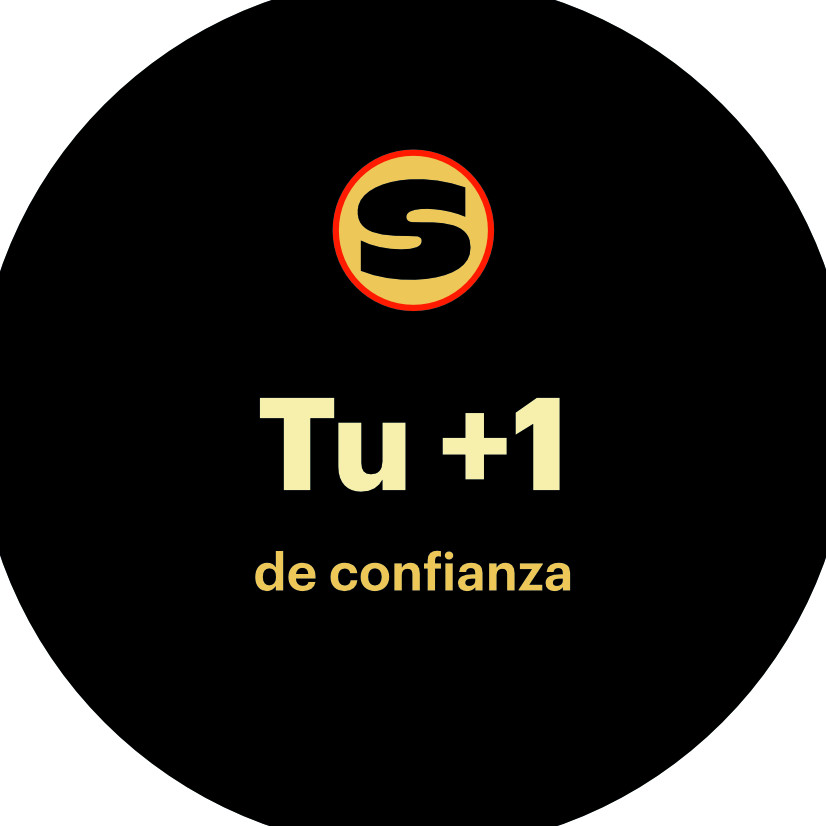
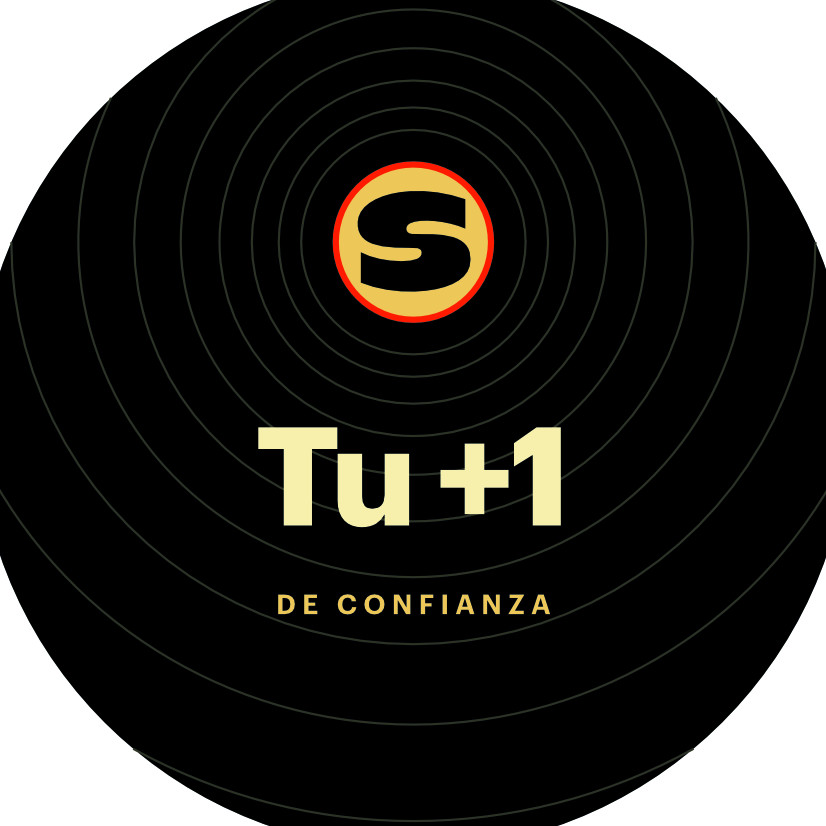
POP rediseñado con el sistema «Resonancia» (filosofía visual + 11 artes)
Claude-Session: https://claude.ai/code/session_01WcAJGWD4Xsw4DEvxBa3Srk

diff --git a/docs/pop/filosofia-visual.md b/docs/pop/filosofia-visual.md
@@ -1,0 +1,13 @@
+# Resonancia · filosofía visual del material impreso
+
+**Resonancia** trata cada pieza como el registro de una perturbación pequeña que se propaga. Un punto denso, compacto y casi mineral cae en un campo tranquilo, y todo lo demás es la evidencia de esa caída: anillos concéntricos que se abren con un espaciado que crece en progresión geométrica. Cerca del origen están apretados, como una vibración recién nacida, y hacia los bordes se separan hasta desaparecer fuera del formato. La composición no explica el movimiento: lo deja medido, como un sismógrafo deja la huella de algo que no se ve.
+
+**El espacio es el agua.** Los campos de color son grandes, planos y sin textura, y ocupan casi toda la superficie. El origen nunca va en el centro geométrico. Se desplaza hacia una esquina o un borde para que las ondas crucen el formato en diagonal y salgan por los cortes, y así la pieza se sienta como un fragmento de un fenómeno más grande que el papel. Los anillos son trazos finísimos de un solo grosor, con un tono apenas separado del fondo. Se descubren al acercarse y desde lejos no compiten. Cada radio está calculado y cada intervalo responde a la misma razón: nada se coloca a ojo. Es un trabajo meticuloso, de quien ajusta la misma curva cien veces hasta que la progresión se siente inevitable.
+
+**El color es escaso y obedece a una jerarquía estricta.** Un fondo dominante, profundo o cálido, ocupa el campo. Un segundo tono, más claro y dorado, dibuja las ondas y las etiquetas. Un único acento incandescente aparece una sola vez por pieza, en el gesto que importa: un trazo ondulado hecho a mano bajo la palabra decisiva, o el borde de un anillo. Si el acento se repite, pierde su función. La paleta está calibrada con una paciencia de laboratorio, hasta que cada tono sabe exactamente cuánto pesa frente a los demás.
+
+**La tipografía es arquitectura, no decoración.** Hay dos escalas y casi nada entre ellas. Los titulares son enormes, compactos y con el interlineado apretado, alineados a la izquierda contra una sola línea de margen que ordena toda la página. Las etiquetas son diminutas, en versalitas espaciadas, y funcionan como las anotaciones de un instrumento de medición: números de estación, coordenadas, una dirección. El texto corrido casi no existe: cada palabra tiene que ganarse su lugar, y lo que sobra se quita. El resultado es tipografía de nivel experto, compuesta con la atención de un maestro del oficio que revisa cada interletra.
+
+**El ritmo nace de la secuencia.** Cuando hay que contar un recorrido, se cuenta como estaciones a lo largo de una línea: un punto, un número, una palabra fuerte y su complemento en voz baja, a intervalos regulares. Recuerda un mapa de metro o una bitácora de observación. La retícula es invisible pero absoluta. Márgenes, columnas y líneas base se alinean entre sí y con el origen de las ondas, de modo que todo el sistema parece descender de un solo cálculo.
+
+**El acabado es la prueba.** No hay sombras, degradados ni efectos: solo vectores limpios, bordes exactos y blancos generosos que respiran. Cada pieza tiene que parecer el producto de incontables horas de refinamiento, hecha por alguien en la cima de su disciplina. La calma de la superficie es el resultado visible de un trabajo invisible y obsesivo.

diff --git a/CHANGELOG.md b/CHANGELOG.md
@@ -5,6 +5,18 @@ Las fechas son de 2026 (hora de Colombia).
 
 ## Repositorio
 
+### 2026-11-22 · Material POP rediseñado: sistema «Resonancia»
+- La filosofía visual está en `docs/pop/filosofia-visual.md`, escrita con la skill de diseño gráfico canvas-design. Retoma la piedra que cae al agua del glifo animado de la landing.
+- Las 11 piezas se rehicieron en Affinity con ese sistema:
+  - Ondas concéntricas que salen del logo, en un tono apenas separado del fondo.
+  - Un solo trazo rojo ondulado por cara.
+  - Titulares grandes y alineados a la izquierda, y etiquetas en versalitas espaciadas.
+  - El recorrido contado como estaciones numeradas.
+  - QR sobre una placa blanca redondeada.
+- En los pines y los stickers las ondas se calculan como arcos dentro del círculo, sin máscaras.
+- En el volante, el QR pasa a 38 mm, lejos del corte, sobre una banda noche.
+- Los cinco QR se verificaron decodificando el render.
+
 ### 2026-11-22 · Menú del equipo sobre la landing (frontend 2.9.2)
 - Si el código secreto se usaba con la página desplazada, el círculo que revela «Detrás de escena» nacía en el glifo, que estaba fuera de la pantalla, y no alcanzaba a cubrirla: se veía la landing debajo de una curva.
 - Ahora el círculo nace en el glifo solo si está a la vista; si no, en el centro de la pantalla. Su radio se calcula para cubrir las cuatro esquinas.

diff --git a/docs/pop/README.md b/docs/pop/README.md
@@ -17,7 +17,15 @@ Cada pieza lleva su propio `origen`, que llega a la inscripción y a la lista de
 - Usan corrección de errores Q y una zona tranquila de 4 módulos.
 - En los artes de Affinity, cada QR es un solo trazado vectorial, sin uniones entre módulos. Todos se verificaron decodificando el render.
 
-## Artes (22/11/2026, logo nuevo) · `artes/`
+## Artes (22/11/2026, sistema «Resonancia») · `artes/`
+
+Todas las piezas siguen `filosofia-visual.md`:
+- **Ondas:** anillos finos que salen del logo en progresión geométrica, en un tono apenas separado del fondo. En los círculos se calculan como arcos, sin máscaras.
+- **Trazo:** uno solo, rojo y ondulado, en la palabra decisiva de cada cara.
+- **Titular:** grande y alineado a la izquierda.
+- **Etiquetas:** versalitas espaciadas.
+- **Recorrido:** contado como estaciones numeradas.
+- **QR:** sobre una placa blanca de esquinas redondeadas.
 
 | Pieza | Archivo | Formato | Sangrado | Oleada |
 |---|---|---|---|---|
